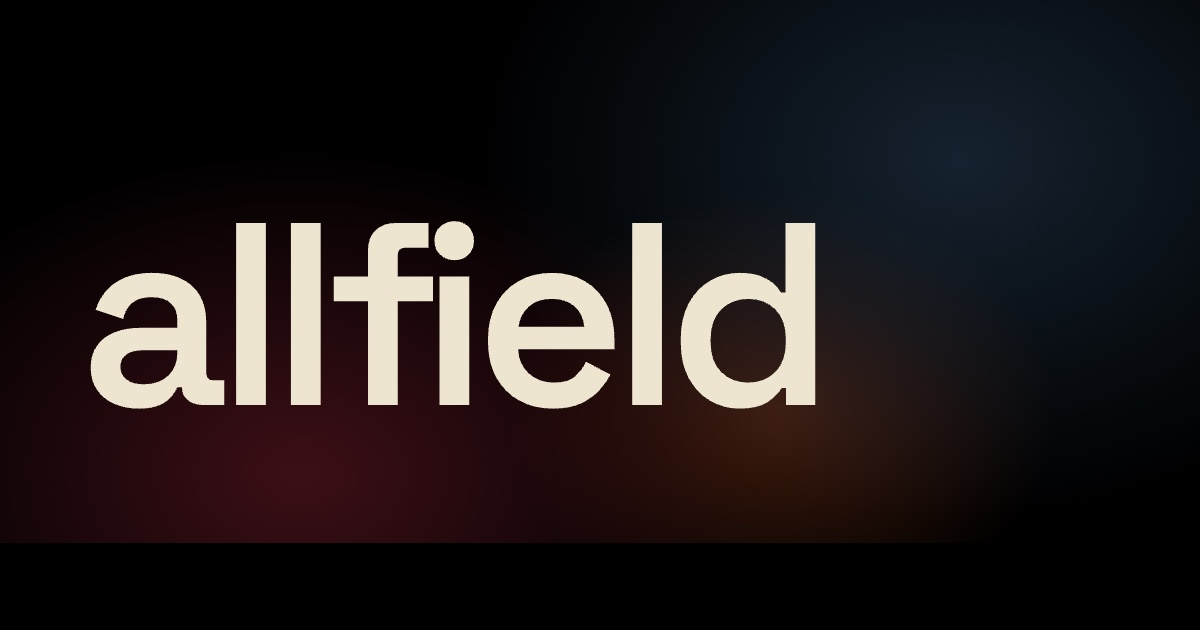
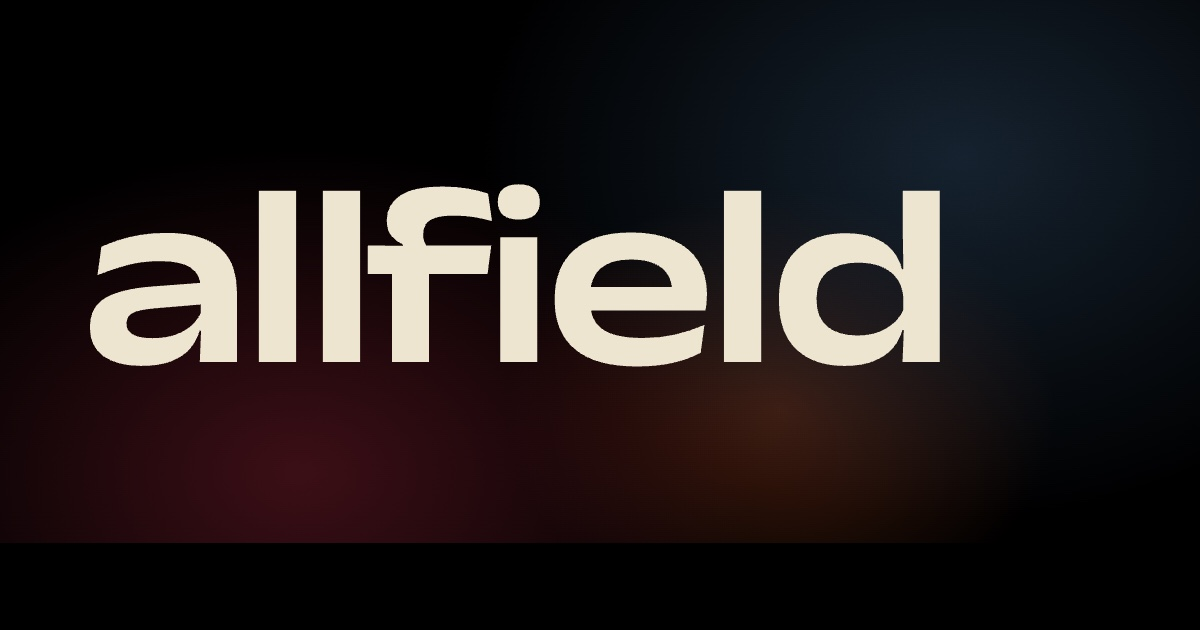
make it modern and sexy. Thanks Pearson

Changed region(s): [[0.0617, 0.2714, 0.8017, 0.6635]]

diff --git a/style.css b/style.css
@@ -87,7 +87,8 @@
 html, body {
   background: var(--bg);
   color: var(--fg);
-  font-family: 'Space Grotesk', system-ui, sans-serif;
+  font-family: 'Anek Kannada', system-ui, sans-serif;
+  font-stretch: 125%;
   -webkit-font-smoothing: antialiased;
   text-rendering: optimizeLegibility;
   min-height: 100vh;
@@ -205,7 +206,7 @@ button { font: inherit; border: 0; background: transparent; color: inherit; curs
   padding-bottom: 12px;
   border-bottom: 1px solid var(--border);
   margin-bottom: 20px;
-  font-family: 'JetBrains Mono', monospace;
+  font-family: 'Anek Kannada', sans-serif;
 }
 .id-call-label, .id-freq-label {
   font-size: 9px;
@@ -229,7 +230,7 @@ button { font: inherit; border: 0; background: transparent; color: inherit; curs
 }
 
 .id-handle {
-  font-family: 'JetBrains Mono', monospace;
+  font-family: 'Anek Kannada', sans-serif;
   font-size: 12px;
   letter-spacing: 0.02em;
   color: var(--fg-subtle);
@@ -268,7 +269,7 @@ button { font: inherit; border: 0; background: transparent; color: inherit; curs
 }
 .id-hash { color: var(--accent); }
 .id-name {
-  font-family: 'Space Grotesk', sans-serif;
+  font-family: 'Anek Kannada', sans-serif;
   font-weight: 600;
   font-size: clamp(36px, 9vw, 56px);
   line-height: 0.9;
@@ -430,7 +431,7 @@ button { font: inherit; border: 0; background: transparent; color: inherit; curs
 }
 .next-tag {
   display: inline-block;
-  font-family: 'JetBrains Mono', monospace;
+  font-family: 'Anek Kannada', sans-serif;
   font-size: 9px;
   letter-spacing: 0.22em;
   text-transform: uppercase;
@@ -453,7 +454,7 @@ button { font: inherit; border: 0; background: transparent; color: inherit; curs
   text-overflow: ellipsis;
 }
 .next-meta {
-  font-family: 'JetBrains Mono', monospace;
+  font-family: 'Anek Kannada', sans-serif;
   font-size: 10px;
   letter-spacing: 0.05em;
   color: var(--fg-muted);
@@ -482,46 +483,22 @@ button { font: inherit; border: 0; background: transparent; color: inherit; curs
   position: relative;
 }
 
-/* timeline rail visible in cards view */
-.mixes.show-rail.cards::before {
-  content: '';
-  position: absolute;
-  left: 13px;
-  top: 10px;
-  bottom: 40px;
-  width: 1px;
-  background: linear-gradient(to bottom, transparent 0%, var(--border-2) 8%, var(--border-2) 92%, transparent 100%);
-  z-index: 0;
-}
 
 /* Year divider */
 .yr {
   display: flex;
   align-items: center;
-  gap: 12px;
+  gap: 10px;
   margin: 12px 0 4px;
-  padding-left: 32px;
-  font-family: 'JetBrains Mono', monospace;
+  padding-left: 14px;
+  font-family: 'Anek Kannada', sans-serif;
   font-size: 10px;
   letter-spacing: 0.2em;
   text-transform: uppercase;
   color: var(--fg-subtle);
-  position: relative;
 }
 .mixes > .yr:first-child {
   margin-top: 0;
-}
-.yr::before {
-  content: '';
-  position: absolute;
-  left: 9px;
-  top: 50%;
-  width: 9px; height: 9px;
-  border-radius: 50%;
-  border: 1.5px solid var(--accent);
-  background: var(--bg);
-  transform: translateY(-50%);
-  z-index: 1;
 }
 .yr-line {
   flex: 1;
@@ -603,7 +580,7 @@ button { font: inherit; border: 0; background: transparent; color: inherit; curs
   align-items: center;
   gap: 8px;
   margin-bottom: 3px;
-  font-family: 'JetBrains Mono', monospace;
+  font-family: 'Anek Kannada', sans-serif;
   font-size: 9.5px;
   letter-spacing: 0.1em;
   text-transform: uppercase;
@@ -639,7 +616,7 @@ button { font: inherit; border: 0; background: transparent; color: inherit; curs
   word-break: break-word;
 }
 .mix-sub {
-  font-family: 'JetBrains Mono', monospace;
+  font-family: 'Anek Kannada', sans-serif;
   font-size: 10px;
   color: var(--fg-subtle);
   letter-spacing: 0.06em;
@@ -647,7 +624,7 @@ button { font: inherit; border: 0; background: transparent; color: inherit; curs
 }
 
 .mix-tag {
-  font-family: 'JetBrains Mono', monospace;
+  font-family: 'Anek Kannada', sans-serif;
   font-size: 9px;
   letter-spacing: 0.14em;
   text-transform: uppercase;
@@ -740,7 +717,7 @@ button { font: inherit; border: 0; background: transparent; color: inherit; curs
 }
 .mixes.log .mix-dot { display: none; }
 .mixes.log .mix-title {
-  font-family: 'JetBrains Mono', monospace;
+  font-family: 'Anek Kannada', sans-serif;
   font-size: 11.5px;
   font-weight: 400;
   letter-spacing: 0.01em;
@@ -786,7 +763,7 @@ button { font: inherit; border: 0; background: transparent; color: inherit; curs
    ============================================================================= */
 .foot {
   margin-top: 48px;
-  font-family: 'JetBrains Mono', monospace;
+  font-family: 'Anek Kannada', sans-serif;
 }
 .foot-line {
   height: 1px;
@@ -808,7 +785,7 @@ button { font: inherit; border: 0; background: transparent; color: inherit; curs
   gap: 20px;
 }
 .foot-mark {
-  font-family: 'Space Grotesk', sans-serif;
+  font-family: 'Anek Kannada', sans-serif;
   font-size: 20px;
   font-weight: 600;
   letter-spacing: -0.035em;
@@ -845,7 +822,7 @@ button { font: inherit; border: 0; background: transparent; color: inherit; curs
   border-radius: 12px;
   padding: 14px;
   box-shadow: 0 20px 40px -12px rgba(0,0,0,0.5);
-  font-family: 'Space Grotesk', sans-serif;
+  font-family: 'Anek Kannada', sans-serif;
   width: 272px;
   max-width: calc(100vw - 32px);
   display: none;
@@ -859,14 +836,14 @@ button { font: inherit; border: 0; background: transparent; color: inherit; curs
   border-bottom: 1px solid var(--border);
 }
 .tw-title {
-  font-family: 'JetBrains Mono', monospace;
+  font-family: 'Anek Kannada', sans-serif;
   font-size: 10px;
   letter-spacing: 0.2em;
   text-transform: uppercase;
   color: var(--fg);
 }
 .tw-hint {
-  font-family: 'JetBrains Mono', monospace;
+  font-family: 'Anek Kannada', sans-serif;
   font-size: 9px;
   letter-spacing: 0.16em;
   text-transform: uppercase;
@@ -877,7 +854,7 @@ button { font: inherit; border: 0; background: transparent; color: inherit; curs
   display: flex;
   justify-content: space-between;
   align-items: center;
-  font-family: 'JetBrains Mono', monospace;
+  font-family: 'Anek Kannada', sans-serif;
   font-size: 10px;
   letter-spacing: 0.14em;
   text-transform: uppercase;
@@ -886,7 +863,7 @@ button { font: inherit; border: 0; background: transparent; color: inherit; curs
 .tw-val { color: var(--fg); letter-spacing: 0.04em; }
 .tw-chips { display: flex; gap: 4px; flex-wrap: wrap; }
 .chip {
-  font-family: 'JetBrains Mono', monospace;
+  font-family: 'Anek Kannada', sans-serif;
   font-size: 9.5px;
   letter-spacing: 0.08em;
   text-transform: uppercase;
@@ -947,7 +924,7 @@ button { font: inherit; border: 0; background: transparent; color: inherit; curs
   font-size: 11.5px;
   color: var(--fg);
   cursor: pointer;
-  font-family: 'JetBrains Mono', monospace;
+  font-family: 'Anek Kannada', sans-serif;
   letter-spacing: 0.08em;
   text-transform: uppercase;
 }

diff --git a/index.html b/index.html
@@ -16,8 +16,8 @@
 <meta name="twitter:card" content="summary_large_image">
 <link rel="preconnect" href="https://fonts.googleapis.com">
 <link rel="preconnect" href="https://fonts.gstatic.com" crossorigin>
-<link href="https://fonts.googleapis.com/css2?family=Space+Grotesk:wght@400;500;600;700&family=JetBrains+Mono:wght@400;500;600&display=swap" rel="stylesheet">
-<link rel="stylesheet" href="style.css?v=34">
+<link href="https://fonts.googleapis.com/css2?family=Anek+Kannada:wdth,wght@125,400..700&display=swap" rel="stylesheet">
+<link rel="stylesheet" href="style.css?v=39">
 <script>
   const TWEAK_DEFAULTS = /*EDITMODE-BEGIN*/{
     "theme": "charcoal",
